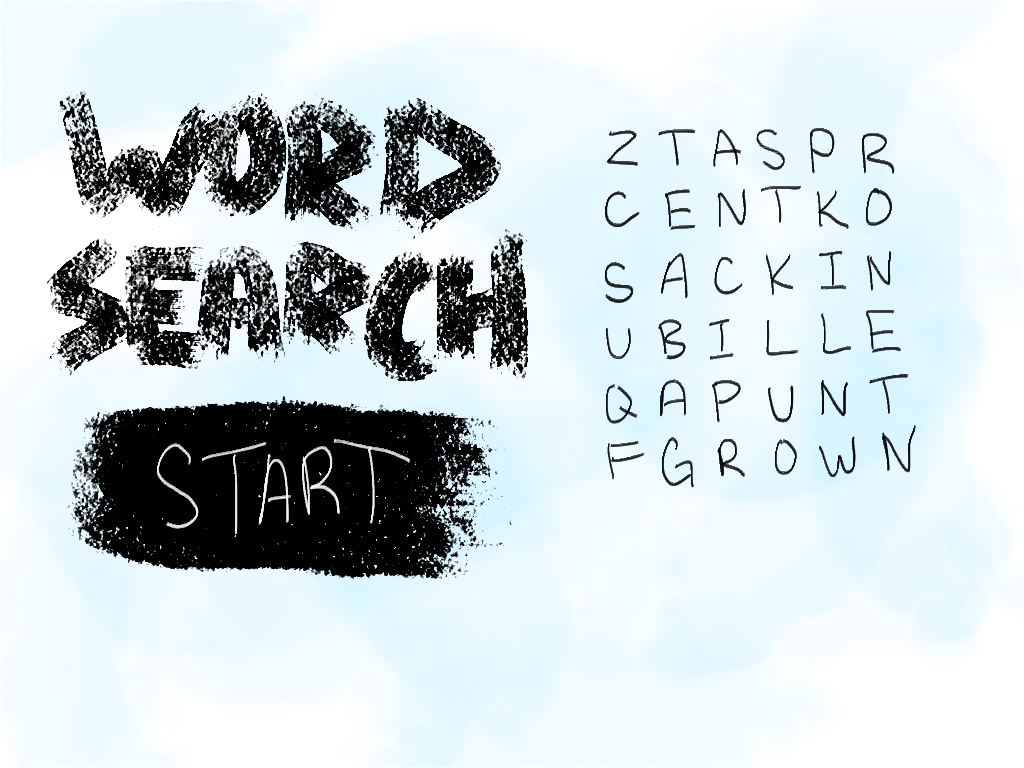
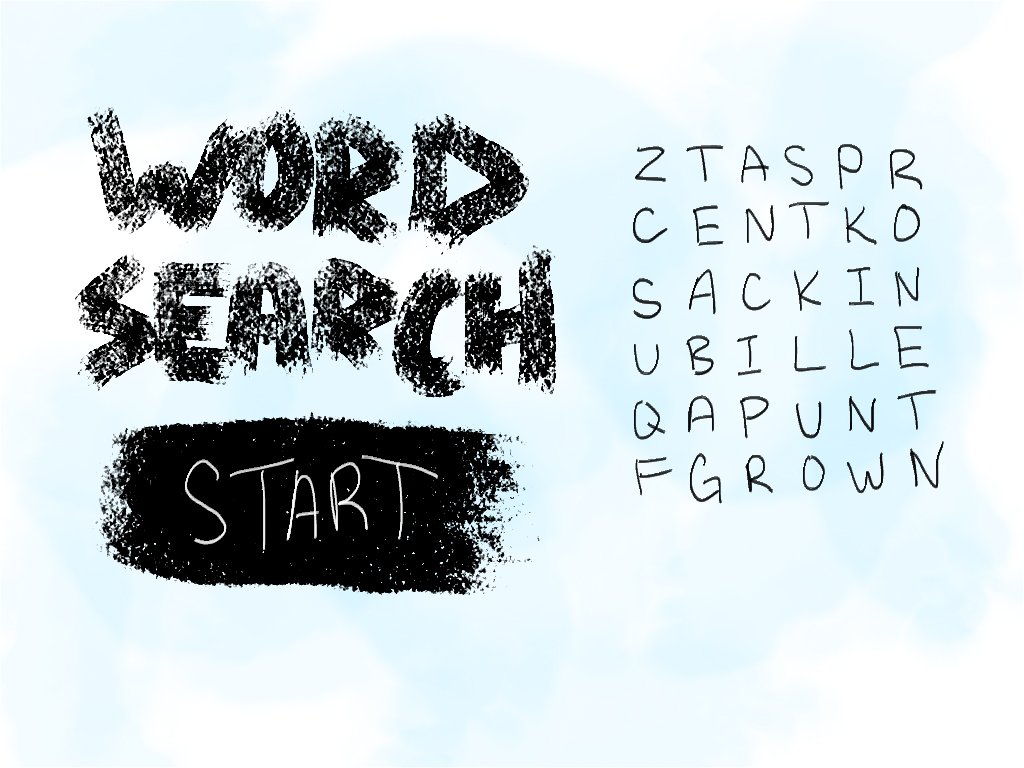
slightly shifted foreground of home page

Changed region(s): [[0.0312, 0.125, 0.5625, 0.7812], [0.5938, 0.1562, 0.9375, 0.6562]]

diff --git a/word-search/src/WordSearchMain.java b/word-search/src/WordSearchMain.java
@@ -34,7 +34,7 @@ public class WordSearchMain {
         ImageIcon homePage = new ImageIcon("gui-images\\title-page.jpg");
         JLabel home = new JLabel(homePage);
         JButton startButton = new JButton();
-        startButton.setBounds(80, 405, 400, 160);
+        startButton.setBounds(110, 425, 400, 160);
         startButton.setOpaque(false);
         startButton.setContentAreaFilled(false);
         startButton.setBorderPainted(false);
